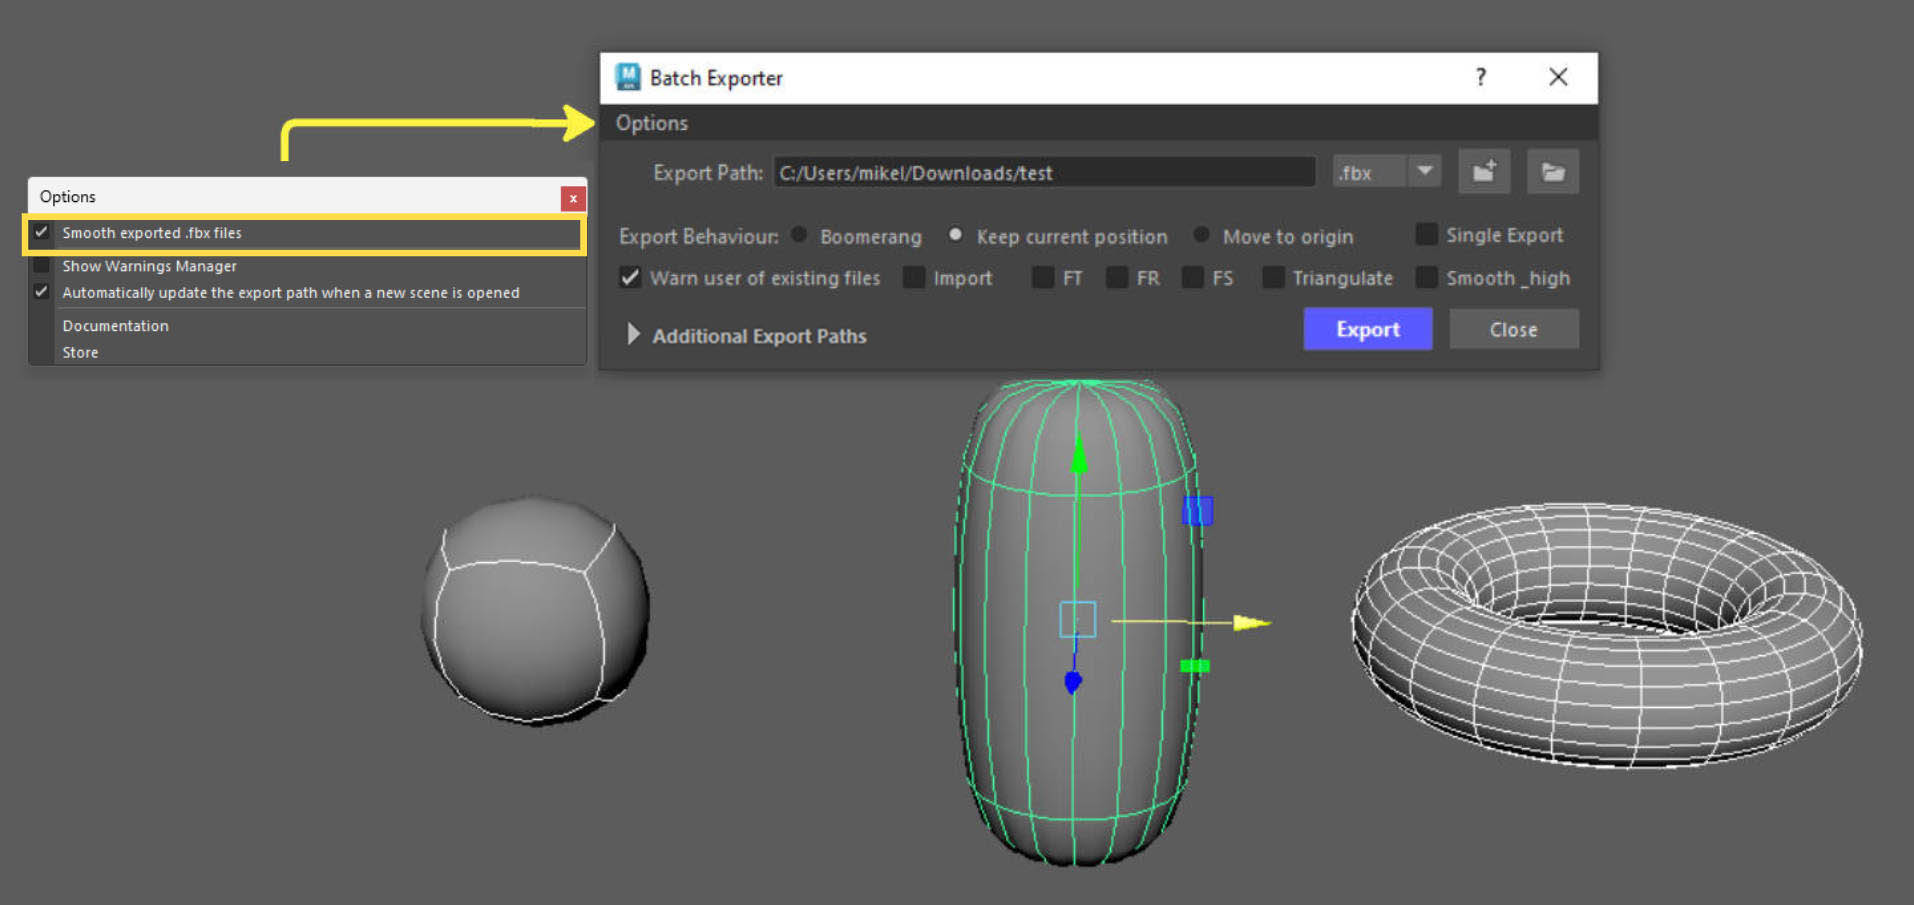
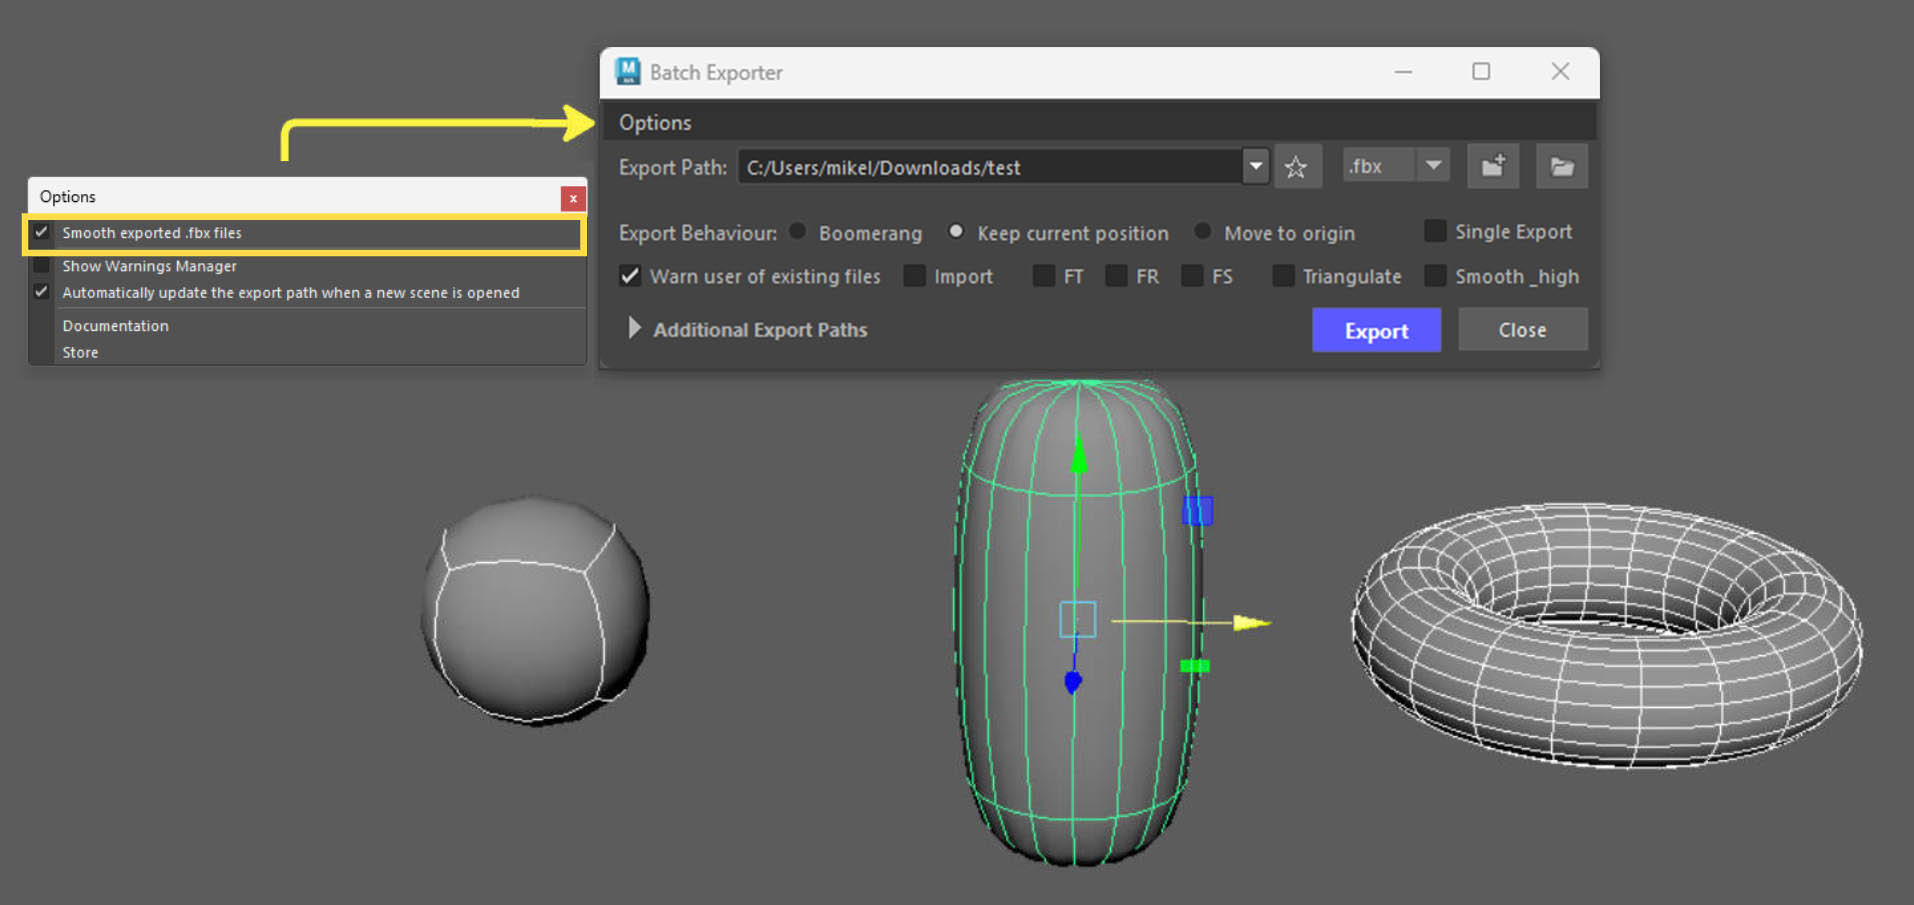
updated docs
updated docs

Changed region(s): [[0.3083, 0.0309, 0.8323, 0.2166], [0.3083, 0.2475, 0.8323, 0.4022]]

diff --git a/docs/Batch Exporter/Breakdown.md b/docs/Batch Exporter/Breakdown.md
@@ -1,5 +1,65 @@
 # **<span style="color:rgb(214, 126, 25);">Breakdown</span>**
 
+## <span style="color:rgb(199, 192, 99);">**Stored Paths**</span>
+
+The path field is a dropdown that remembers the folders you use. Paths are stored globally, so they persist across scenes and Maya sessions. 
+
+
+<figure style="text-align: center;">
+    <img src="../images/Batch_Exporter_Temp_Paths_1.gif" class="img-medium" alt="Vertex Paint Tool Replace VC 1">
+    <figcaption><span style="color:rgba(22, 165, 110, 1);">Storing Temp paths from folder dropping</span></figcaption>
+</figure>
+
+### How paths get stored
+
+- A folder is added to the top of the dropdown whenever you:
+
+    * Pick a folder through the browse dialog
+    * Type or paste a valid path and press Enter (or click away from the field)
+    * Drag and drop one or more folders from Explorer anywhere onto the tool window
+    * Use the path in an export / import / material creation
+
+### Pinned favorites (<span style="color:rgb(199, 192, 99);">**★**</span>)
+
+- Click the star button next to the path field to pin the current folder as a favorite.
+
+    <figure style="text-align: center;">
+        <img src="../images/Batch_Exporter_Temp_Paths_3.gif" class="img-medium" alt="Vertex Paint Tool Replace VC 1">
+        <figcaption><span style="color:rgba(22, 165, 110, 1);">Pinning Favorites</span></figcaption>
+    </figure>
+
+    * Favorites always stay at the top of the dropdown, marked with a gold star.
+    * Favorites never fall out of the list and survive "clear all recent paths".
+    * Favorites are protected from deletion — unpin them first (click the star again) to remove them.
+
+
+### Missing folder detection
+
+- Every time you open the dropdown, the tool checks whether each stored folder still exists on disk.
+
+    <figure style="text-align: center;">
+        <img src="../images/Batch_Exporter_Temp_Paths_2.gif" class="img-medium" alt="Vertex Paint Tool Replace VC 1">
+        <figcaption><span style="color:rgba(22, 165, 110, 1);">Missing paths</span></figcaption>
+    </figure>
+
+    * Folders that no longer exist (renamed, moved, or deleted) are shown with a faint red background.
+    * Hovering the entry shows the full path with a "folder no longer exists" note.
+    * The check runs live on every click, so changes on disk show up immediately — no restart needed.
+
+- The path field itself also turns red while it contains an invalid path, and clears back to normal as soon as the path is valid (or the field is emptied).
+
+### Removing stored paths
+
+- All removal shortcuts are on the folder *(Select Folder Path)* button:
+
+    * ++ctrl++ + Click	Delete all recent paths (pinned favorites are kept)
+    * ++ctrl++ + ++shift++ + Click	Remove only the path currently shown in the field
+
+???+ Tip "Tip - Long Paths"
+    * Long paths that don't fit in the field can be read in full by hovering the dropdown entry (tooltip).
+
+
+
 ## <span style="color:rgb(199, 192, 99);">**How to export**</span>
 
 When batch exporting - the tool uses the Object's name as the file name.
@@ -286,6 +346,8 @@ Move to Origin will move your objects to the World Origin (0,0,0), export them a
 ???+ warning "Warning - Freezing Transforms on group objects"
     When using any of the Freeze Transform options on a group node, it will only Freeze the transforms of the group *(not the children)*.
 
-## Single Export
+## <span style="color:rgb(199, 192, 99);">**Single Export**</span>
 
 [Link to Single Export documentation](../Batch%20Exporter/Buttons_overview.md#single-export){ .md-button .md-button--primary }
+
+

diff --git a/docs/Batch Exporter/Buttons_overview.md b/docs/Batch Exporter/Buttons_overview.md
@@ -7,6 +7,9 @@
 1. <span style="color:lime">Options</span>  - Check the [options menu](#options-menu) below for more.
 
 2. <span style="color:lime">Export Path</span> - Displays the path of your exported files in the textfield.
+    * Also holds the last 10 temp paths used (click on the dropdown next to the star button to reveal temp paths).
+    * Use the Star to favor selected paths.
+    * You can store paths by pasting a folder path in the Export path section, dropping a folder in the UI, or choosing a path using the Select Folder Path button (4). 
 3. <span style="color:lime">Dropdown menu</span> - Choose between different file types to export.
 4. <span style="color:lime">Select Folder Path</span> :material-folder-plus: - Opens up a window for users to navigate to a desired folder and export their files.
 5. <span style="color:lime">Open Folder Path in explorer</span> :material-folder: - Opens the path set in the Export Path textfield.
